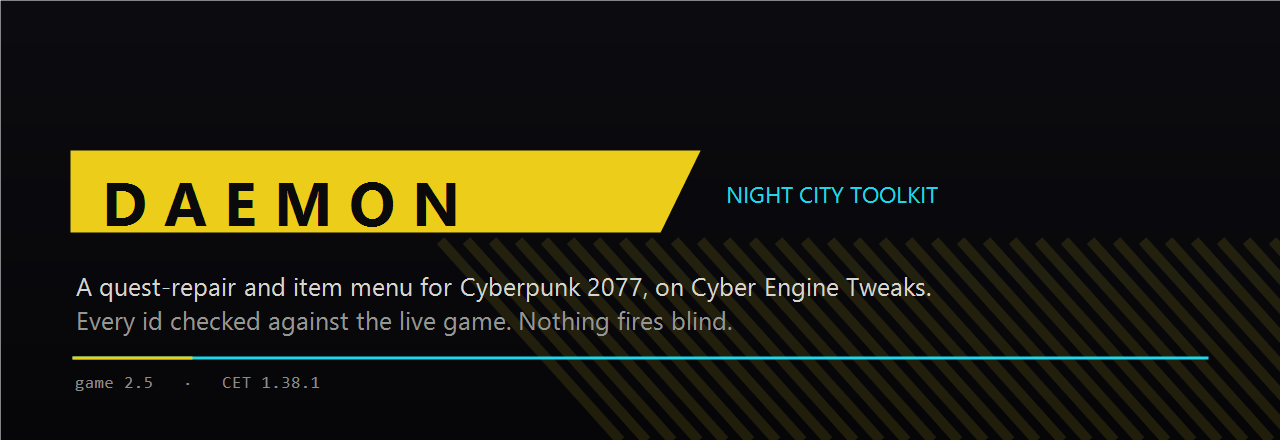
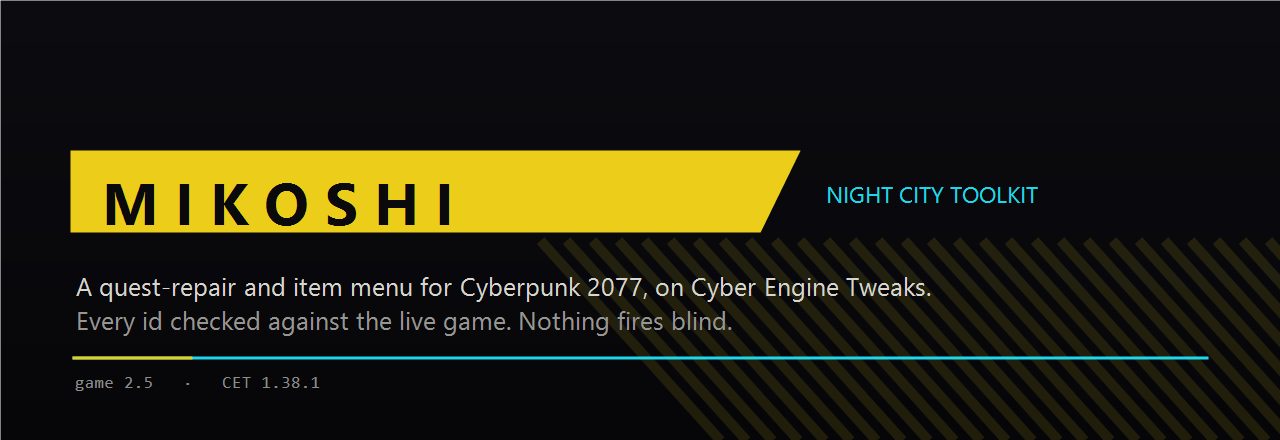
Rename to Mikoshi
The Arasaka data fortress where engrams are held, which is where Johnny sat
before the Relic. Better fit than Daemon: the standout feature reads every
record out of the player's own install, which is what a Mikoshi is.

The mod folder stays 'fixer' so existing key bindings survive; only the
display name, window title, banner and hotkey label change.

Changed region(s): [[0.0625, 0.325, 1.0, 1.0]]

diff --git a/preview.html b/preview.html
@@ -112,7 +112,7 @@ ol li b{color:var(--fg)}
 
 <div class="wrap">
   <p class="eyebrow">Cyber Engine Tweaks · game 2.5 · CET 1.38.1</p>
-  <h1>Daemon <span>//</span> command reference</h1>
+  <h1>Mikoshi <span>//</span> command reference</h1>
   <p class="lede">A reference for every command in the mod, with the exact Lua behind each one. Read it on a phone or second screen while you play. Nothing here touches the game.</p>
   <p class="lede" style="color:var(--red);font-size:.9rem">This is not a picture of the overlay. The real menu is drawn by ImGui, which has one font at one size and its own button shapes, so it looks plainer than this. The commands, categories and counts are accurate; the styling is not.</p>
 

diff --git a/NEXUS-FIELDS.md b/NEXUS-FIELDS.md
@@ -6,7 +6,7 @@ Paste each block into the matching field.
 
 ## Description
 
-Daemon is a quest-repair and item menu for Cyberpunk 2077, built on Cyber Engine Tweaks.
+Mikoshi is a quest-repair and item menu for Cyberpunk 2077, built on Cyber Engine Tweaks.
 
 It started with Letter of the Law: the quest would not register that I had gathered the information needed to proceed. Four ids from popular community lists turned out to be wrong, including one that reads perfectly in game but belongs to a different quest entirely.
 
@@ -25,9 +25,9 @@ From that one quest it grew into the commands people actually ask for: eddies an
 1. Install Cyber Engine Tweaks first if you do not have it.
 2. Unzip this mod into your Cyberpunk 2077 folder. It lands at `bin\x64\plugins\cyber_engine_tweaks\mods\fixer\`.
 3. Open the CET overlay and press **Reload All Mods**, or restart the game.
-4. The Daemon window appears whenever the overlay is open.
+4. The Mikoshi window appears whenever the overlay is open.
 
-To bind a key: open the overlay, go to **Bindings**, find "Fixer: show menu", click the empty box, press your key, then Save. CET does not allow mods to ship a default key, so it starts unbound.
+To bind a key: open the overlay, go to **Bindings**, find "Mikoshi: show menu", click the empty box, press your key, then Save. CET does not allow mods to ship a default key, so it starts unbound.
 
 **To uninstall:** delete the `fixer` folder. It writes nothing outside its own directory apart from a one-line `theme.txt` beside itself holding your chosen colour palette.
 

diff --git a/README.md b/README.md
@@ -1,12 +1,12 @@
-<img src="docs/banner.png" alt="Daemon, a Night City toolkit for Cyberpunk 2077">
+<img src="docs/banner.png" alt="Mikoshi, a Night City toolkit for Cyberpunk 2077">
 
-# Daemon
+# Mikoshi
 
 A Cyber Engine Tweaks mod menu for Cyberpunk 2077, built for game **2.5** and
 **CET 1.38.1**. It repairs stuck quests, hands over items, and browses every
 record the running game will admit to.
 
-Folder name is `fixer` and the display name is Daemon. The folder stays as it is
+Folder name is `fixer` and the display name is Mikoshi. The folder stays as it is
 so an existing hotkey binding survives a rename.
 
 ![Quest Fixes and the cyberpsycho checklist](docs/screenshot-quest-fixes.png)
@@ -23,7 +23,7 @@ Open the CET overlay, press **Reload All Mods**. No restart. To remove it,
 delete the folder; it writes nothing outside its own directory except a one-line
 `theme.txt` beside itself.
 
-To bind a key: overlay, **Bindings**, "Fixer: show menu". CET does not let a mod
+To bind a key: overlay, **Bindings**, "Mikoshi: show menu". CET does not let a mod
 ship a default key, so it starts unbound.
 
 ## The rule this is built on
